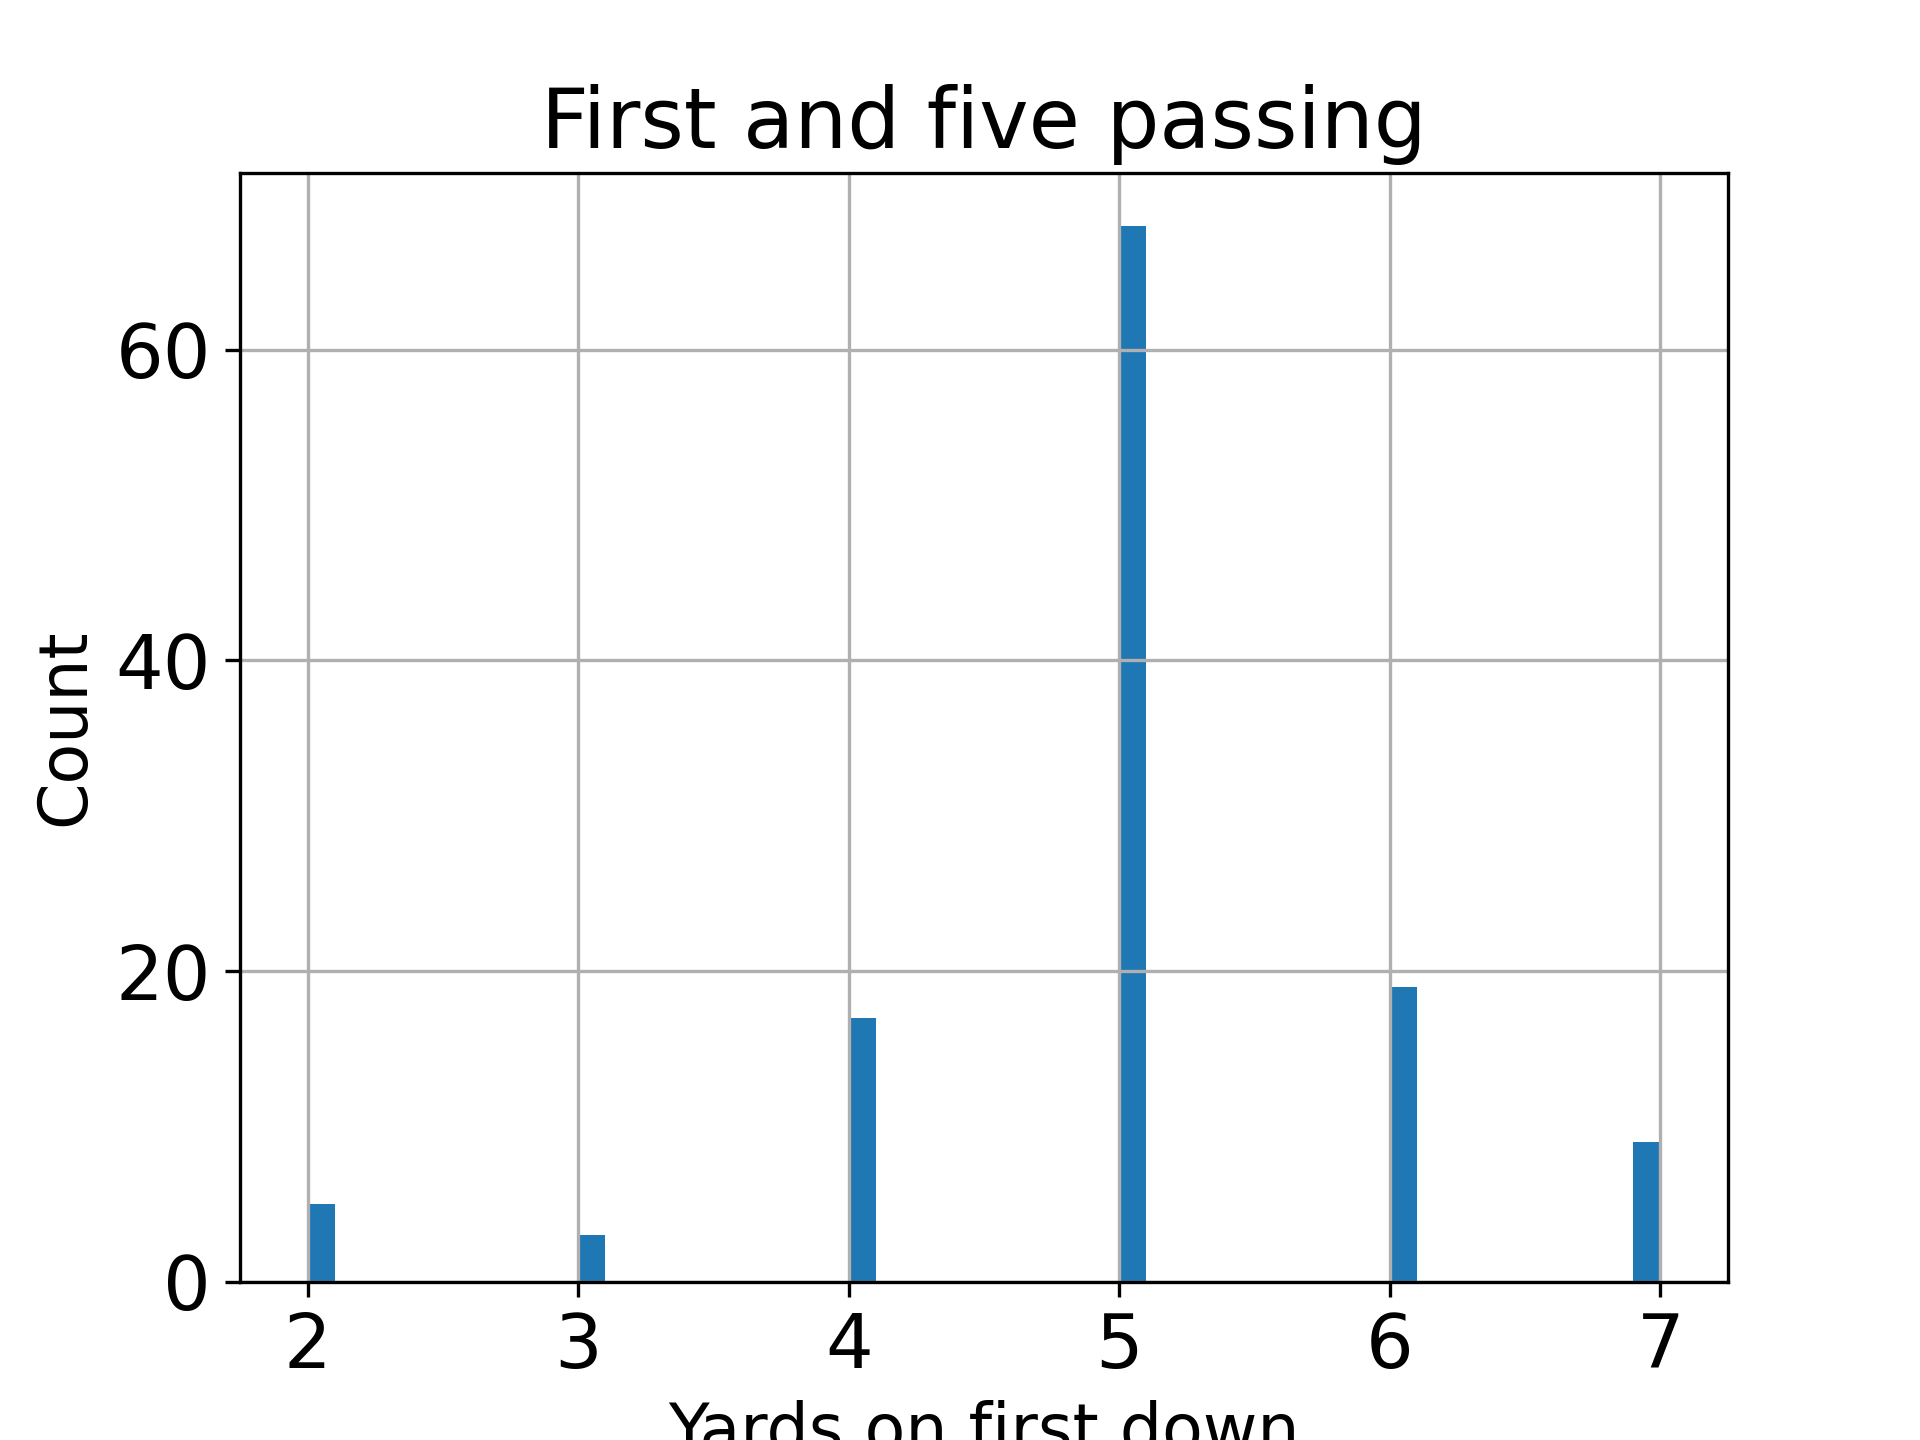
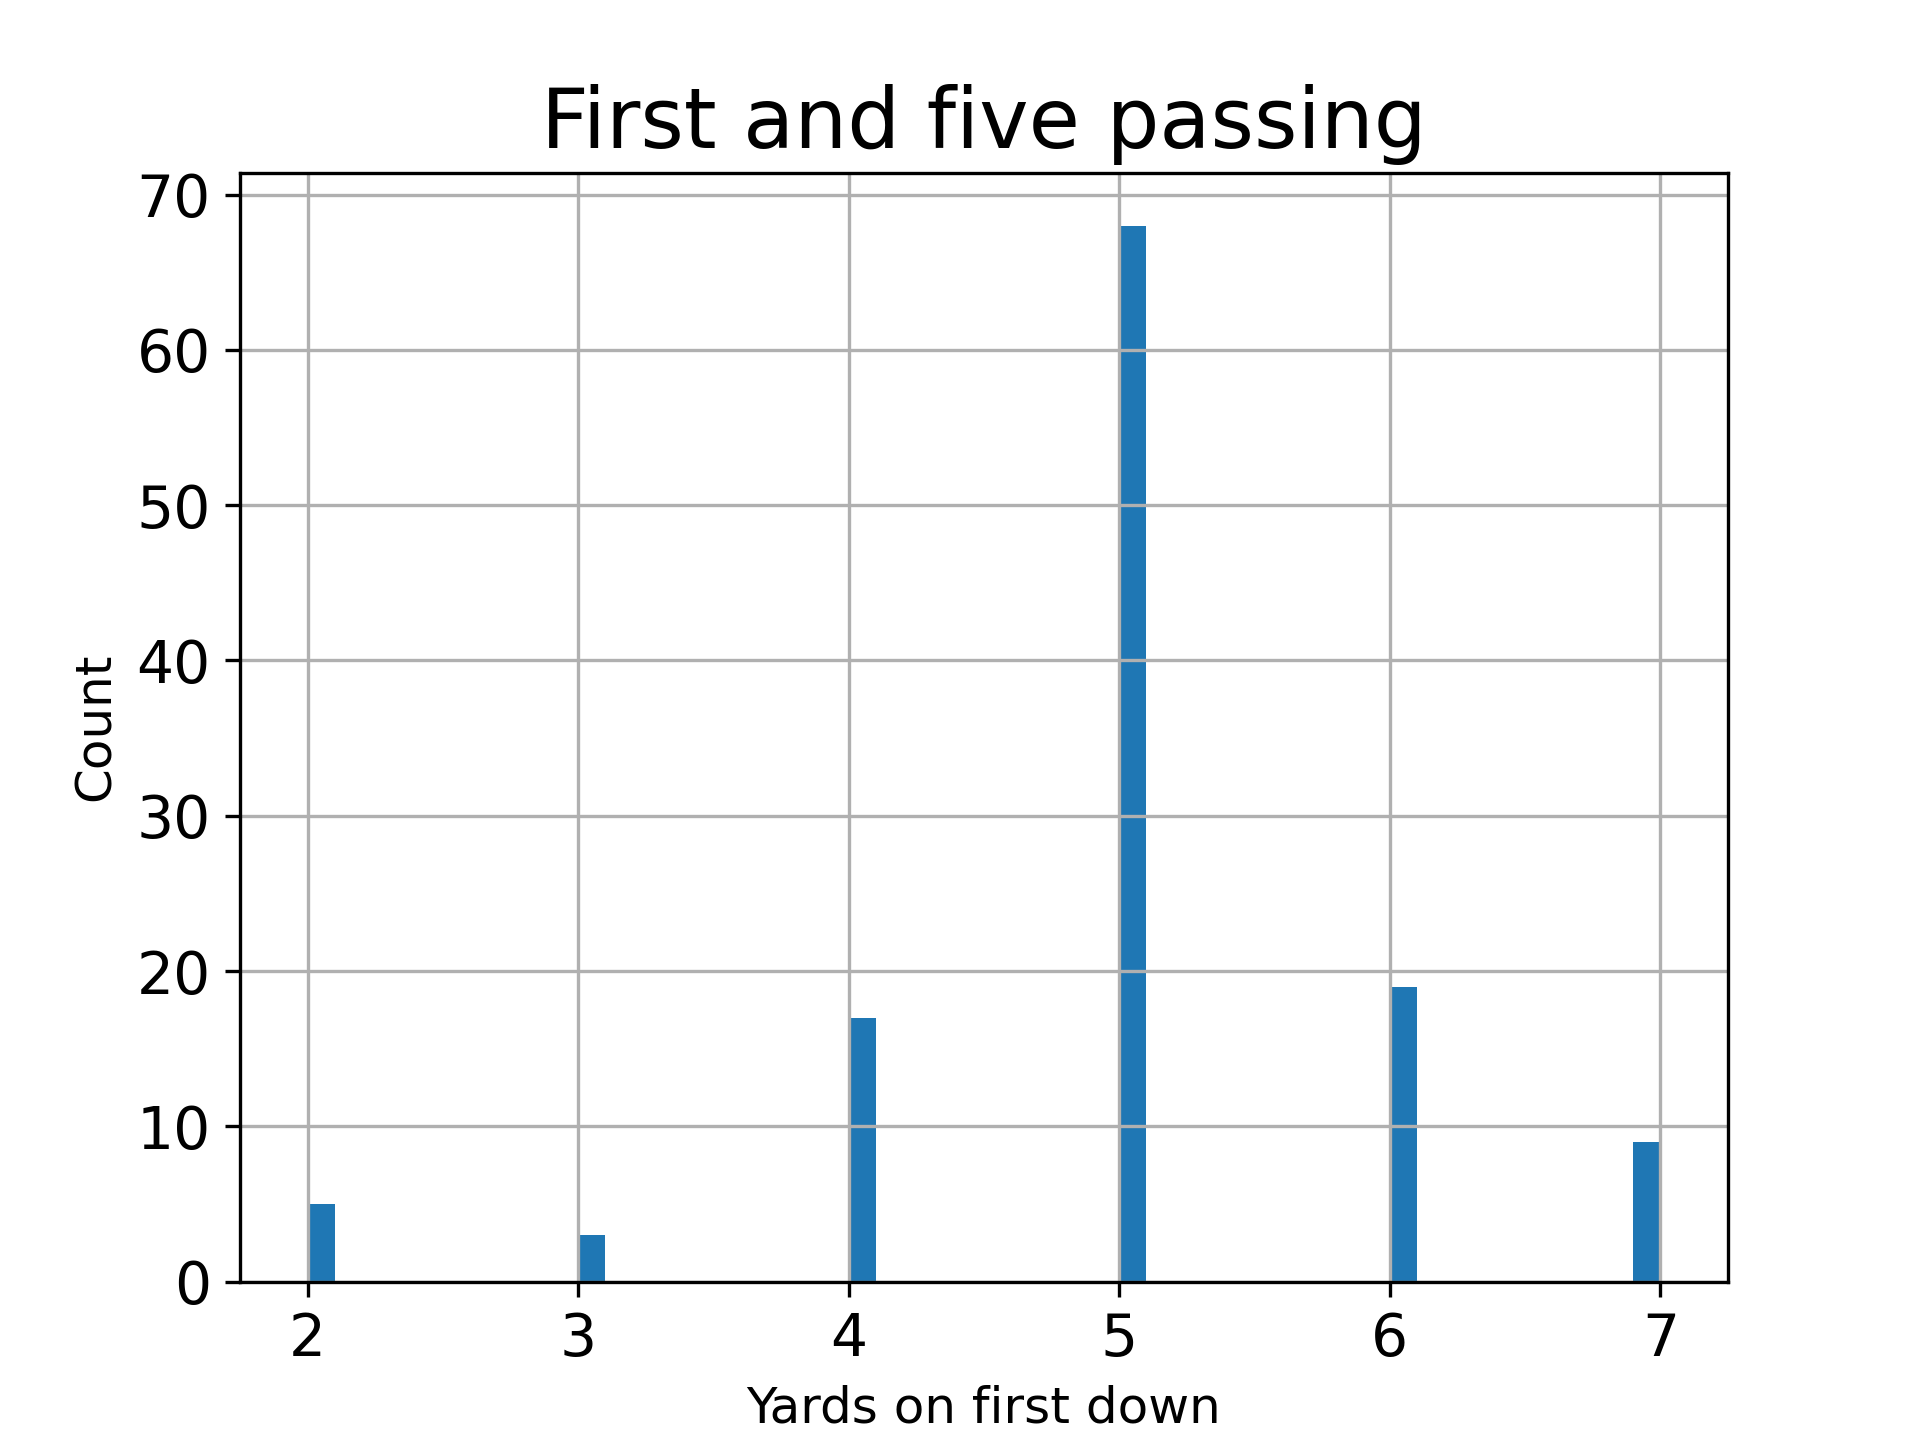
pics

diff --git a/images/make_first_and_five_passing.py b/images/make_first_and_five_passing.py
@@ -4,16 +4,16 @@ import matplotlib.pyplot as plt
 
 font = {'family' : 'normal',
         'weight' : 'normal',
-        'size'   : 18}
+        'size'   : 14}
 import matplotlib
 matplotlib.rc('font', **font)
 
-dpi = 300
+dpi = 1200
 
 gains_on_first = df.loc[(df['dwn']==1)& (df['ytg']==5) & (df['type']=='PASS') & (df['yds']<8) & (df['yds']>1),:]
 gains_on_first[['yds']].rename(columns={'yds':'First Down Yards Gained'}).hist(bins=50)
 import matplotlib.pyplot as plt
-plt.ylabel('Count',fontsize=16)
-plt.xlabel('Yards on first down',fontsize=16)
+plt.ylabel('Count',fontsize=12)
+plt.xlabel('Yards on first down',fontsize=12)
 plt.title('First and five passing',fontsize=20)
 plt.savefig('first_and_five_passing_'+str(dpi)+'.png', dpi=dpi)

diff --git a/images/make_first_and_ten_rushing.py b/images/make_first_and_ten_rushing.py
@@ -4,7 +4,7 @@ import matplotlib.pyplot as plt
 
 font = {'family' : 'normal',
         'weight' : 'normal',
-        'size'   : 18}
+        'size'   : 14}
 import matplotlib
 matplotlib.rc('font', **font)
 
@@ -16,8 +16,8 @@ import matplotlib.pyplot as plt
 
 circle = plt.Circle((0.5, 0.5), 0.2, color='yellow')
 
-plt.ylabel('Count',fontsize=16)
-plt.xlabel('Yards on first down',fontsize=16)
+plt.ylabel('Count',fontsize=12)
+plt.xlabel('Yards on first down',fontsize=12)
 plt.title('First and ten rushing',fontsize=20)
 plt.savefig('first_and_ten_rushing_'+str(dpi)+'.png', dpi=dpi)
 
